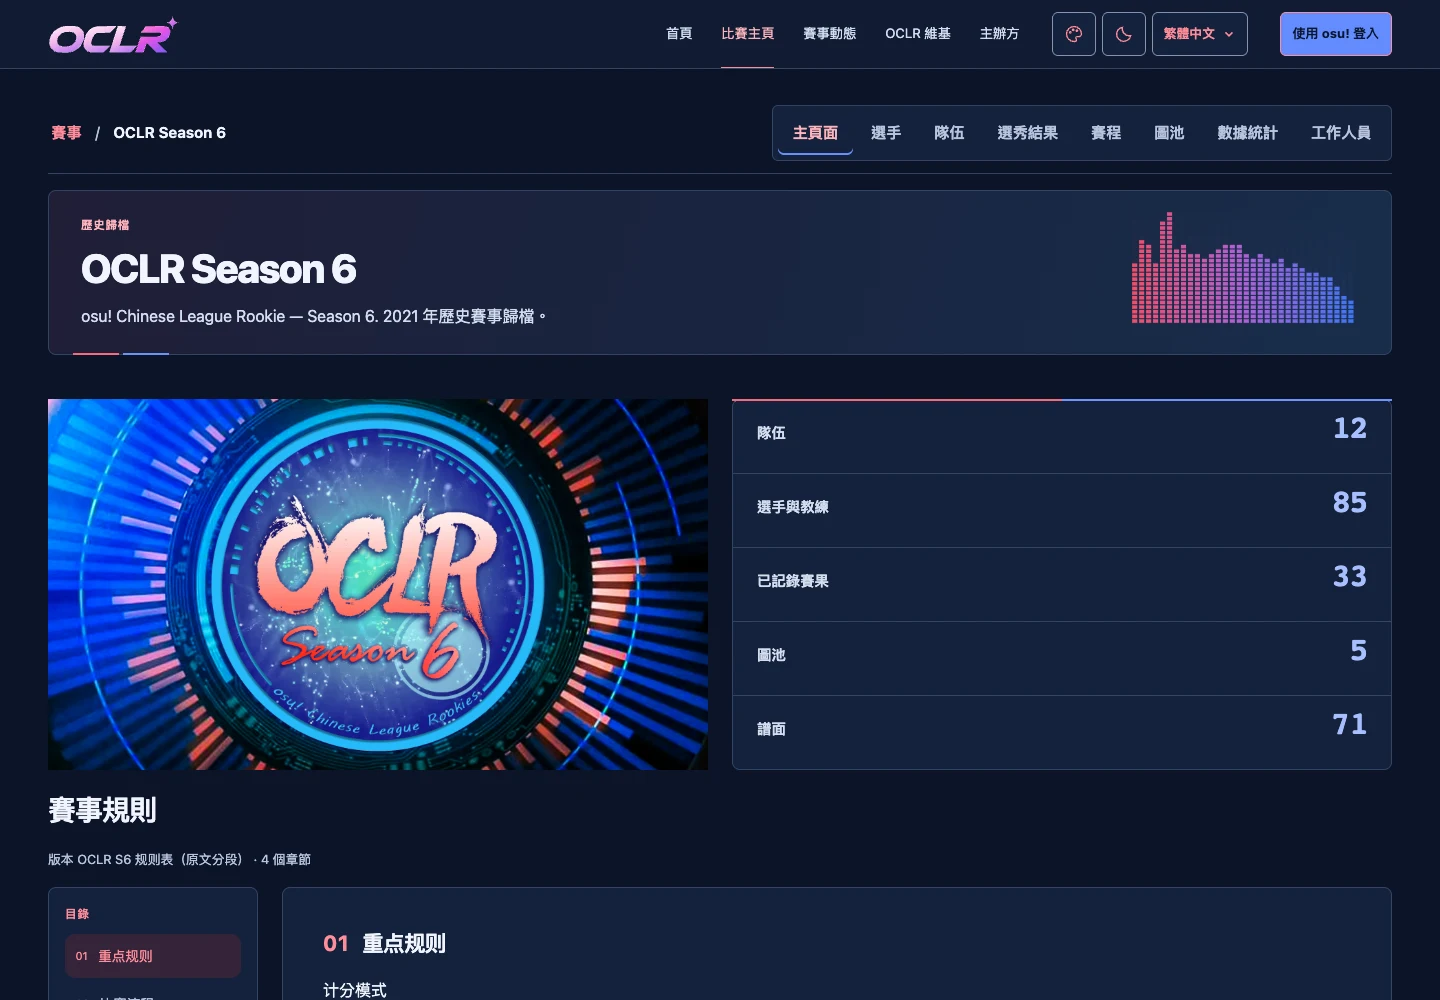
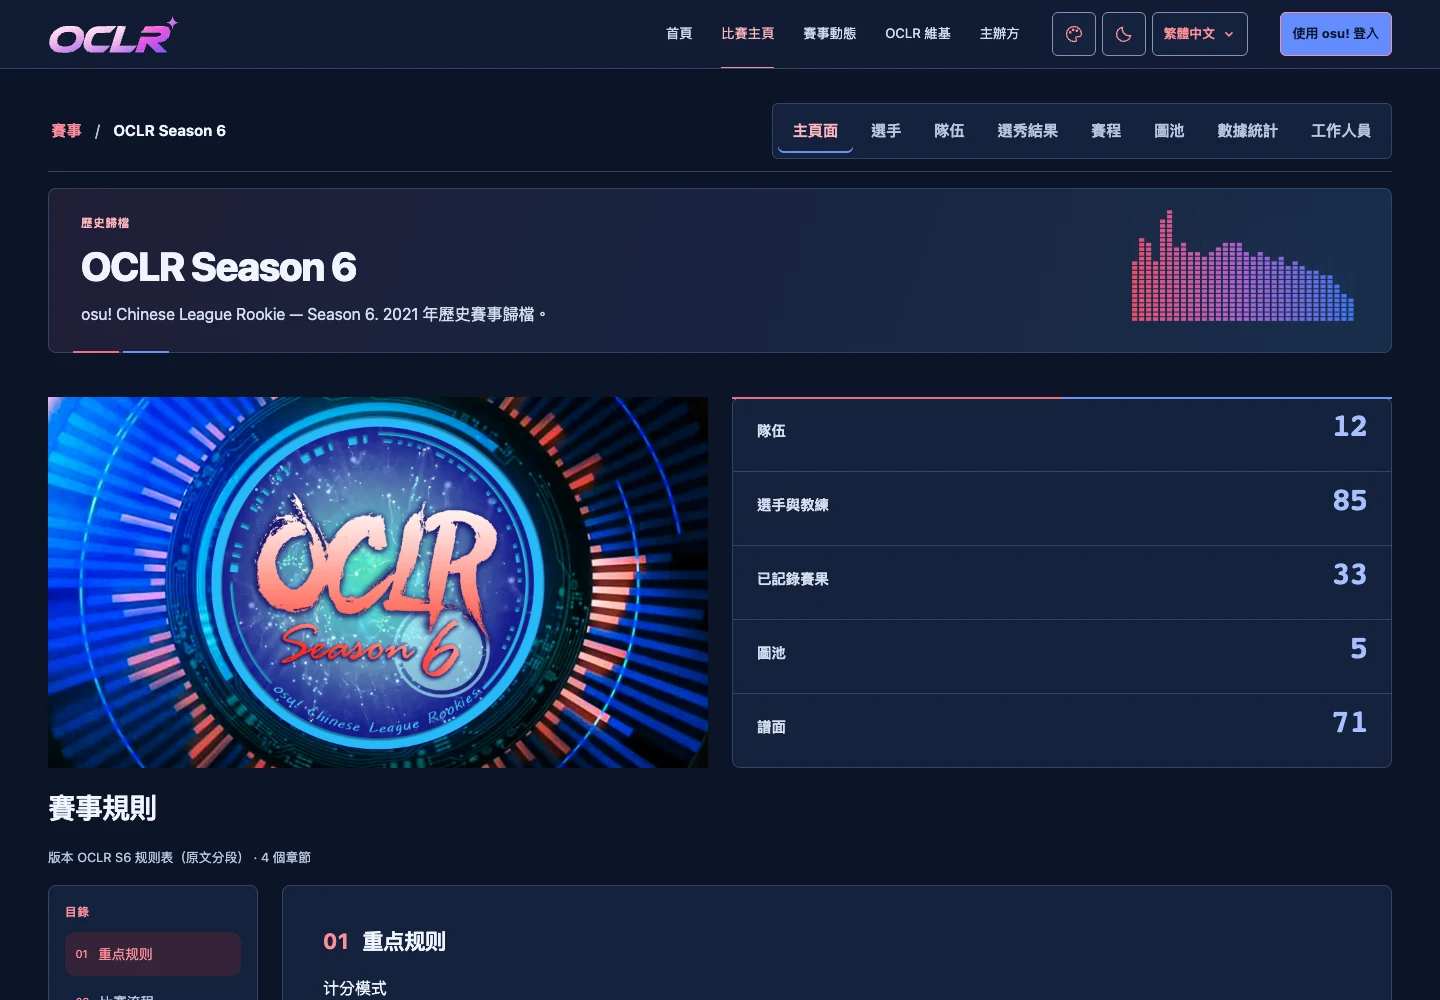
test(theme): verify registered S6 surfaces and refresh previews (#346)

diff --git a/docs/design/season-themes/s6.html b/docs/design/season-themes/s6.html
@@ -117,8 +117,9 @@
       <div class="eyebrow">OCLR · SEASON 6 · DESIGN PREVIEW</div>
       <h1>星環脈衝 · Orbital Pulse</h1>
       <p>
-        候選主題預覽，尚未啟用。以最新應用頁面呈現紅藍雙色與紅到藍漸變的水平音樂頻譜；完整保留
-        S6 原始主視覺。
+        正式外觀整合預覽，等待 PR
+        審閱。以最新應用頁面呈現紅藍雙色與紅到藍漸變的水平音樂頻譜；完整保留 S6
+        原始主視覺。
       </p>
       <p>
         <a href="s6/DESIGN.md">設計與重現步驟</a> ·
@@ -152,21 +153,21 @@
       >
       <label
         >樣式<select name="version">
-          <option value="">S6 候選主題</option>
+          <option value="">S6 Orbital Pulse</option>
           <option value="current-">目前原有風格</option>
         </select></label
       >
     </form>
     <figure>
       <figcaption id="caption" aria-live="polite">
-        S6 主頁 · 桌面 1440px · 深色 · S6 候選主題
+        S6 主頁 · 桌面 1440px · 深色 · S6 Orbital Pulse
       </figcaption>
       <img
         id="preview"
         src="s6/desktop-dark.webp"
         width="1440"
         height="1000"
-        alt="S6 主頁 · 桌面 1440px · 深色 · S6 候選主題"
+        alt="S6 主頁 · 桌面 1440px · 深色 · S6 Orbital Pulse"
       />
     </figure>
   </body>

diff --git a/tests/e2e/pastel-appearance.spec.ts b/tests/e2e/pastel-appearance.spec.ts
@@ -348,6 +348,9 @@ for (const appearance of Object.keys(optional) as (keyof typeof optional)[]) {
               ].includes(path)
             )
               await accessible(page);
+            // Let RSC prefetches finish before navigation or cookie changes;
+            // WebKit reports cancelled in-flight reads as access-control errors.
+            await page.waitForLoadState("networkidle");
           }
           await page.locator(".appearance-trigger").click();
           await expect(
@@ -355,6 +358,7 @@ for (const appearance of Object.keys(optional) as (keyof typeof optional)[]) {
           ).toHaveAttribute("data-appearance-option", appearance);
           await accessible(page);
           await page.keyboard.press("Escape");
+          await page.waitForLoadState("networkidle");
         }
       await setPreferences(context, "en", "light");
       for (const width of isMobile ? [320, 390] : [768, 1024, 1600]) {
@@ -367,6 +371,7 @@ for (const appearance of Object.keys(optional) as (keyof typeof optional)[]) {
         await expect(
           page.locator(".appearance-control [role=menu]"),
         ).toHaveCount(0);
+        await page.waitForLoadState("networkidle");
       }
       expect(errors).toEqual([]);
     });

diff --git a/tests/e2e/site-appearance-settings.spec.ts b/tests/e2e/site-appearance-settings.spec.ts
@@ -9,6 +9,7 @@ import {
 } from "../../src/db/schema";
 import { assertTestDatabase } from "../database";
 import { seedSession } from "./session";
+import { appearances } from "../../src/lib/preferences";
 const origin = "http://127.0.0.1:3100";
 const headers = { Origin: origin };
 
@@ -211,8 +212,12 @@ test.describe("Admin default and visitor appearance overrides", () => {
     } finally {
       await guest.close();
     }
-    expect(await db().select().from(siteSettingEvents)).toHaveLength(15);
-    expect((await db().select().from(siteSettings))[0].revision).toBe(15);
+    expect(await db().select().from(siteSettingEvents)).toHaveLength(
+      appearances.length + 2,
+    );
+    expect((await db().select().from(siteSettings))[0].revision).toBe(
+      appearances.length + 2,
+    );
     expect(errors).toEqual([]);
   });
   test("enforces global Admin authorization, origin and concurrency through the API", async ({

diff --git a/tests/e2e/header-branding.spec.ts b/tests/e2e/header-branding.spec.ts
@@ -175,8 +175,11 @@ for (const locale of ["zh-Hans", "zh-Hant", "en"] as const)
               "aria-expanded",
               "false",
             );
-          await home.focus();
-          await page.keyboard.press("Enter");
+          // The same-route link can show a modal loading overlay. Wait until
+          // it releases keyboard focus before activating the brand link.
+          await page.waitForLoadState("networkidle");
+          await expect(page.locator("[data-loading-overlay]")).toHaveCount(0);
+          await home.press("Enter");
           await expect(page).toHaveURL("http://127.0.0.1:3100/");
         }
         expect(errors).toEqual([]);

diff --git a/docs/design/season-themes/s6/DESIGN.md b/docs/design/season-themes/s6/DESIGN.md
@@ -1,22 +1,22 @@
 # S6 — Orbital Pulse / 星環脈衝
 
-2026-10-28，依 [#346](https://github.com/OCLR-dev/OCLR-website/issues/346) 與主辦方「以最新 theme 為範本，先預覽」製作候選。應用基準為 main `0c93609b3a7f267dce3dd4545384b4d4f0ff8d91`，包含最新 S7 精修 #413。此輪只交付預覽，尚未註冊 `orbital-pulse`、修改任何預設或加入正式選單。
+2026-10-28，依 [#346](https://github.com/OCLR-dev/OCLR-website/issues/346) 與主辦方最新「開發完整的 s6 theme 並 PR」要求正式接入。從 `6321f201c2ec2d3675837a34a3c72e1dfa128fd1` 的 MainSheet 延伸已迭代預覽，註冊 `orbital-pulse`，等待 PR 審閱；尚未合併或部署，也不自動更改任何預設。
 
 ## 方向與畫面
 
 依主辦方對原圖的更正，以紅藍雙主色呈現音樂節奏：紅色用於選取／強調，藍色用於主要操作、數字與資料。冷白與深靛藍工作面承接兩色，標題右側是高低起伏的水平音樂頻譜柱，由左紅、經紫色平滑過渡至右藍，完整 S6 原圖仍是主視覺。前版星盤／指針解讀已撤換。
 
-沿用最新 S7 的 MainSheet 結構、內容寬度判斷、完整原圖／五列統計對齊、文字篩選、44px 控制項與工作側欄；改用 6px 控制／8px 面板圓角。沒有新增產品文案或假介面，預覽的主頁、賽程、圖池與 Admin 都來自目前的 React 元件。
+沿用最新 S7 的 MainSheet 結構、內容寬度判斷、完整原圖／五列統計對齊、文字篩選、44px 控制項與工作側欄；改用 6px 控制／8px 面板圓角。新增產品文案僅為三語外觀名稱，預覽的主頁、賽程、圖池與 Admin 都來自目前的 React 元件。
 
-- [可切換圖庫](../s6.html)：四個頁面 × 桌面／手機 × 明暗 × 候選／原有風格。
+- [可切換圖庫](../s6.html)：四個頁面 × 桌面／手機 × 明暗 × S6／原有風格。
 - [桌面 Dark](desktop-dark.webp)／[Light](desktop-light.webp) · [手機 Dark](mobile-dark.webp)／[Light](mobile-light.webp)。
 - [賽程](schedule-desktop-dark.webp) · [圖池](mappools-desktop-dark.webp) · [Admin](admin-desktop-dark.webp)。
 - [937px 標題](heading-937-dark.png)／[390px 標題](heading-390-dark.png)，原生 2×。
 - 音訊分析版頻譜局部：[Dark](spectrum-audio-dark.png)／[Light](spectrum-audio-light.png)。
 
-## 候選語意 tokens
+## 語意 tokens
 
-完整值見 [s6.css](../s6.css)。紅藍品牌色與成功、警告、錯誤各自使用獨立 tokens，狀態文字與圖示沿用現有元件。
+正式樣式見 [orbital-theme.css](../../../../src/app/orbital-theme.css)；[s6.css](../s6.css) 保留作候選階段歷史參考。紅藍品牌色與成功、警告、錯誤各自使用獨立 tokens，狀態文字與圖示沿用現有元件。
 
 | Token                   | Light     | Dark      |
 | ----------------------- | --------- | --------- |
@@ -47,11 +47,13 @@
 - 資料使用已提交的 `s6-confirmed-archive.json` 與 `s6-configured-rules.json`，沿用既有 S6 presentation fixture 的純函式，於隔離 test DB 重現 [2026-10-25 主辦方確認的 33 場紀錄](../../../s6-archive.md)。沒有讀取 production 或執行真實審批；合成 fixture 的來源標記明確註明 Synthetic UI。
 - 主頁保留 12 隊、85 位選手／教練、33 場已記錄結果、5 個圖池、71 張譜面與四章規則。未補造缺失對局、日期、名次或隊伍。Admin 只使用隔離 DB 的 `Synthetic UI Preview` 合成帳號；session 僅留在程序記憶體。
 
-## 預覽方法與邊界
+## 正式接入與邊界
 
-目前未修改 `src`、`messages`、`public`、外觀白名單、migration 或正式路由。以目前應用的原有外觀作基準，在本機瀏覽器加入 `data-s6-preview` 與候選 CSS 後直接截圖；這是候選 CSS 預覽，尚非正式 S6 SSR 外觀。CSS 中的 SVG 由工具內嵌為本地 data URI。
+`orbital-pulse` 加入共用外觀白名單與三語標籤：S6 · Orbital Pulse／S6 · 星环脉冲／S6 · 星環脈衝。沿用外觀選單、SSR cookie、全站及賽事管理設定；優先序仍是訪客選擇 → 當前有權限／已發佈賽事預設 → 全站預設。清除訪客選擇跟隨當前路由，不寫入自動偏好；非賽事頁不繼承上一季，light/dark 獨立，OBS／presenter 不套用。
 
-圖庫只切換保存的圖片，不連接 API、DB，不儲存 cookie 或 localStorage。擷取程序封鎖外部流量及非 GET／HEAD 請求；各次樣式前後核對 body 文字與元素數目相同。
+Migration `0050_orbital_pulse_appearance` 只擴充 site_settings 與 site_setting_events 的外觀約束，不選擇預設、不改歷史。API 契約與 OpenAPI 由現有工具再生成，遠端前端沿用 bundled theme assets。沒有新增音樂播放或音訊下載。
+
+圖庫直接擷取已註冊的實際頁面：先保存 default 對照，再寫入本機測試 context 的 `oclr-appearance=orbital-pulse` 並 reload，核對 SSR 回應，使用建置後的 CSS 與 `/themes/orbital-pulse/music-spectrum.svg`；沒有注入候選 CSS。圖庫本身仍只切換保存的圖片，不連接 API、DB 或儲存偏好。擷取程序封鎖外部流量及非 GET／HEAD 請求，並核對樣式前後內容相同。
 
 ## 重現
 
@@ -77,18 +79,26 @@ node --import tsx docs/design/season-themes/s6/capture.mjs
 node docs/design/season-themes/s6/analyse-spectrum.mjs /private/tmp/oclr-s6-spectrum-source.mp3
 ```
 
-工具先核對音檔 SHA-256，再輸出頻段數據及 SVG；使用 OfflineAudioContext，不播放聲音，也不在預覽時載入音檔。
+工具先核對音檔 SHA-256，再輸出頻段數據及 SVG；正式素材為相同 SVG 的完整副本，位於 `public/themes/orbital-pulse/music-spectrum.svg`。使用 OfflineAudioContext，不播放聲音，也不在預覽時載入音檔。
 
-`S6_UI_BASELINE` 指定應用基準 SHA，`S6_PREVIEW_ORIGIN` 可指定另一 loopback 專用預覽。工具會先核對 `src`／`messages`／`public` 與基準相同。圖庫可直接開啟 `s6.html`，不依賴上述服務。
+`S6_UI_BASELINE` 指定應用基準 SHA（預設 HEAD，報告記錄解析後的完整 SHA），`S6_PREVIEW_ORIGIN` 可指定另一 loopback 專用預覽。工具會先核對 `src`／`messages`／`public` 與基準相同。圖庫可直接開啟 `s6.html`，不依賴上述服務。
 
 ## 本輪驗證
 
-- 沿用前輪 Node.js 24.22.1 `npm ci` 與已通過 production build／TypeScript 的同一應用基準。本輪只修改候選 CSS、SVG 與圖庫文件，沒有重建未更動的應用；候選樣式由實際瀏覽器解析並重新驗證。
-- [verification.json](verification.json)：四路由 × 320／390／768／1440px × 明暗，共 32 組／32 次 Axe AA，零違規、無水平溢出或 pageerror。
-- 保留 DOM／文字、完整原圖、五列統計與四章規則；手機賽事選單開關／Escape 焦點及 Admin 鍵盤焦點通過。
-- 4 組 forced colours 通過；937px／390px 的明暗標題局部未遮住文字。
-- 圖庫 32 種切換組合全部正確載入，320／390／768／1440px × 明暗共 8 次 Axe AA 零違規；無溢出、pageerror，鍵盤焦點通過。見 [gallery-verification.json](gallery-verification.json)。
-- 工具語法／ESLint、格式、文件連結與 `git diff --check` 通過。原圖與基準提交的 SHA-256 相同，候選 CSS hash 與最終擷取報告一致。
-- 本輪屬設計預覽，未執行完整單元／整合、全站 E2E、三語／Safari 矩陣或正式 S6 SSR 偏好測試。基準 main 的 [CI](https://github.com/OCLR-dev/OCLR-website/actions/runs/40657007517) 成功，與本輪預覽證據分開記錄。
+來源實作提交 `66026d17cd6e4cc9f33829e5cc62627bc09954e3`；本節記錄本機結果，CI 與主辦方審閱分開確認。所有資料檢查均限隔離 test DB。
 
-設計方法沿用專案指定 [Refactoring UI](https://github.com/LovroPodobnik/refactoring-ui-skill/blob/main/.claude/skills/ui-refactor/SKILL.md) 與前端設計指引。等待主辦方預覽回饋；正式名稱／三語文案審閱、外觀註冊與完整整合驗證留待正式接入。
+- Node.js 24.22.1，`npm ci`、`npm run check`、`npm run build` 通過。
+- `npm test`：175個檔案通過，1424項通過、1項略過。包含 migration0050前後驗證、既有設定與歷史保留，以及各種外觀的共用授權檢查。
+- `npm run i18n:extract`、填入新增兩份中文標籤、`npm run test:i18n`（4項）通過；51份延伸契約再生成及`--check`通過，OpenAPI同步。
+- `npm audit --omit=dev`：0項漏洞。
+- [verification.json](verification.json)：正式 SSR `orbital-pulse`，四路由 × 320／390／768／1440px × 明暗，共32組／32次Axe AA，零違規、無溢出或pageerror。DOM／文字、完整1920×1080原圖、五列統計、四章規則、手機選單／Escape焦點與Admin鍵盤焦點通過；另4組forced colours及937／390px標題不遮字檢查通過。CSS、正式SVG與原圖hash綁定擷取來源。
+- [gallery-verification.json](gallery-verification.json)：32種圖片切換及8組尺寸／明暗Axe AA零違規，無溢出或pageerror，鍵盤焦點通過。
+- Chrome選定40個桌面／手機案例：涵蓋S6三語、SSR、明暗、完整原圖、長資料、公共／Admin／Captain頁、OBS／presenter隔離、site／tournament設定與S7–S10選單回歸。初次36項通過、4項失敗；補齊導覽載入遮罩等待並將設定audit筆數按註冊外觀計算後，相關12項header及4項設定檢查均取得通過結果，其餘未更動案例沿用本輪結果。後續配色測試等待背景預載入完成，Chrome桌面／手機2項重跑通過。
+- `npm run test:e2e:core`：固定核心範圍桌面／手機28項通過。
+- Safari／WebKit桌面與手機選定24項：初次23項通過，1項快速跳頁造成背景RSC預載入中斷；保留錯誤斷言、等待讀取完成後，相關桌面／手機2項重跑通過。最終24個選定案例均取得通過結果。
+- 遠端前端`frontend.spec.ts`：Chrome桌面／手機2項通過，包含全部註冊外觀及S6頻譜素材GET／HEAD、解碼、SSR偏好、隔離測試授權與撤銷後私人資料清除；前端無本機DB或OAuth配置。
+- 修改工具與測試的ESLint／格式、文件連結、`git diff --check`、正式CSS／SVG／原圖hash檢查通過。專用預覽與test PostgreSQL在驗證後停止。
+
+本輪未執行全站完整`full`矩陣；既有日常CI範圍維持不變。未進行真實OAuth、production資料／migration、部署或發佈；issue關閉與正式驗收由主辦方確認。
+
+設計方法沿用專案指定 [Refactoring UI](https://github.com/LovroPodobnik/refactoring-ui-skill/blob/main/.claude/skills/ui-refactor/SKILL.md) 與前端設計指引。名稱與新增三語標籤一併提交主辦方審閱。

diff --git a/AGENTS.md b/AGENTS.md
@@ -19,7 +19,7 @@ These instructions apply to contributors and coding agents. Maintainer/operator 
 - [#270](https://github.com/OCLR-dev/OCLR-website/issues/270) supplies the remote adapter. [#271](https://github.com/OCLR-dev/OCLR-website/issues/271) extends the existing pages/services to full saved-read coverage; [#272](https://github.com/OCLR-dev/OCLR-website/issues/272) supplies shared request/response contracts, OpenAPI/DX documentation and consolidated DB-free acceptance. See [remote development](docs/remote-development.md) and the generated [page/module matrix](docs/remote-coverage.json). Check commit-specific issue evidence and CI; the inventory itself does not establish a test pass, organizer acceptance or deployment.
 - The organizer's current request authorizes #271–#272 only. The frontend needs no local DB, migration, seed, OAuth secret or storage setup; the separate backend needs read contract 1.1.0+ within v1 and its existing approved configuration/migrations. Actual subject/appointment checks remain enforced and this channel grants no business writes, including for cumulative Admin/staff roles.
 - After this batch, pause. Do not automatically start another issue, grant real roles, issue real credentials or deploy. New Chinese interface wording still requires organizer review; #10's earlier organizer-attested rehearsal remains completed separately.
-- The registered appearances are `default`, `cute-pastel`, `swiss-minimal`, `claymorphism`, `manga-halftone`, `glassmorphism`, `esports-broadcast`, `retro-arcade`, `frutiger-aero`, `skyline-pop`, `glacier-blue`, `sakura-circuit`, `graphite-arena` and `orbital-pulse`. Other [appearance proposals](docs/design/appearance-backlog/README.md) are design references, not enabled themes or approved tournament data. S10 Skyline Pop (#195), S9 Glacier Blue (#196), S8 Sakura Circuit (#197) S7 Graphite Arena (#198) and S6 Orbital Pulse (#346) are registered following the organizer’s explicit integration requests; existing defaults are unchanged.
+- The registered appearances are `default`, `cute-pastel`, `swiss-minimal`, `claymorphism`, `manga-halftone`, `glassmorphism`, `esports-broadcast`, `retro-arcade`, `frutiger-aero`, `skyline-pop`, `glacier-blue`, `sakura-circuit`, `graphite-arena` and `orbital-pulse`. Other [appearance proposals](docs/design/appearance-backlog/README.md) are design references, not enabled themes or approved tournament data. S10 Skyline Pop (#195), S9 Glacier Blue (#196), S8 Sakura Circuit (#197), S7 Graphite Arena (#198) and S6 Orbital Pulse (#346) are registered following the organizer’s explicit integration requests; existing defaults are unchanged.
 - The organizer-attested #10 rehearsal remains completed as recorded below. The development-tool maintenance exception has a separate review due **2026-11-05**; see [deployment evidence and maintenance notes](docs/deployment.md). Never substitute historical local results for current CI or deployment checks.
 
 ## Contributor setup and workflow
@@ -45,7 +45,7 @@ These instructions apply to contributors and coding agents. Maintainer/operator 
 - For general UI/UX guidance, optionally consult [UI/UX Pro Max](https://github.com/nextlevelbuilder/ui-ux-pro-max-skill) (`ui-ux-pro-max`) for accessibility, interaction, responsive layout, typography and color. When the skill is available, read its installed `SKILL.md` and relevant references. These optional resources supplement the Refactoring UI guidance; project-specific requirements take precedence.
 - Interface locales are `zh-Hans` (organizer-selected default), `zh-Hant` and `en`. Use the existing next-intl catalogs and translation helpers; run `npm run i18n:extract` / `npm run test:i18n` when changing interface messages. Keep authored tournament text, identities and beatmap metadata literal. Do not translate technical form values, URLs, role codes or stored timestamps. Preserve existing OAuth/deep-link paths.
 - Public, login, Admin, Player and Captain pages share the MainSheet light/dark tokens and request-rendered preference cookie (#93–#95). Keep authorization/publication boundaries separate from appearance; only OBS/presenter output retains isolated broadcast styling. Verify menu geometry, controls and both themes at mobile widths.
-- Visitors can independently choose the default, cute-pastel, swiss-minimal, claymorphism, manga-halftone, glassmorphism, esports-broadcast, retro-arcade, Frutiger Aero, S10 Skyline Pop, S9 Glacier Blue, S8 Sakura Circuit S7 Graphite Arena or S6 Orbital Pulse design from the header's appearance menu. Preserve the whitelisted, server-rendered `oclr-appearance` preference across ordinary public/private pages, separately from light/dark. Global Admins may set the site default at `/admin/settings`; edition Admins may set a whitelisted optional `defaultAppearance` in the existing tournament configuration (#143 supersedes the former site-only restriction). Priority is explicit visitor cookie → current authorized/published tournament default → site default. Clearing the visitor choice follows the current route’s inherited default without writing an automatic preference cookie. Non-edition pages do not inherit the last visited edition. Keep light/dark independent and OBS/presenter styling isolated.
+- Visitors can independently choose the default, cute-pastel, swiss-minimal, claymorphism, manga-halftone, glassmorphism, esports-broadcast, retro-arcade, Frutiger Aero, S10 Skyline Pop, S9 Glacier Blue, S8 Sakura Circuit, S7 Graphite Arena or S6 Orbital Pulse design from the header's appearance menu. Preserve the whitelisted, server-rendered `oclr-appearance` preference across ordinary public/private pages, separately from light/dark. Global Admins may set the site default at `/admin/settings`; edition Admins may set a whitelisted optional `defaultAppearance` in the existing tournament configuration (#143 supersedes the former site-only restriction). Priority is explicit visitor cookie → current authorized/published tournament default → site default. Clearing the visitor choice follows the current route’s inherited default without writing an automatic preference cookie. Non-edition pages do not inherit the last visited edition. Keep light/dark independent and OBS/presenter styling isolated.
 
 ## Verification and data safety
 
